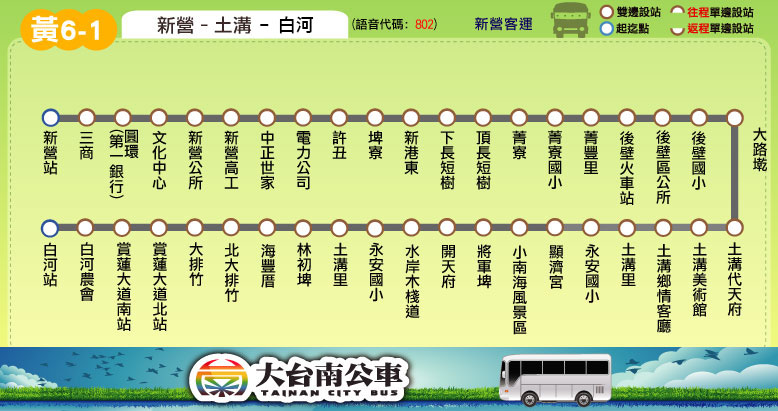
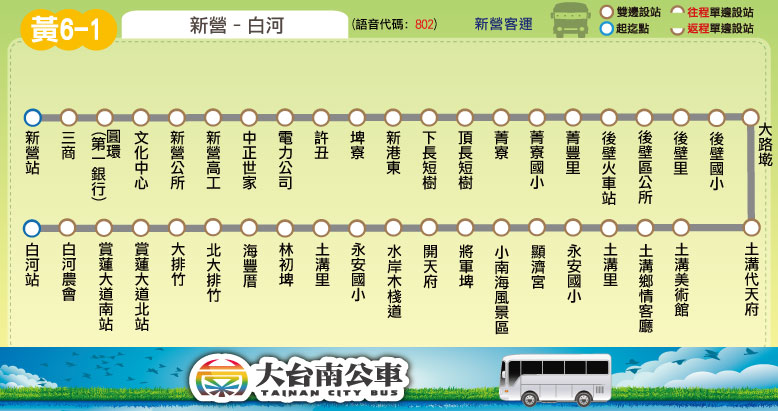
新增站位：黃6-1(增「後壁里」)、黃10(增「後壁里」、「後壁區公所」)

diff --git a/route/fare_and_time/yellow_10.js b/route/fare_and_time/yellow_10.js
@@ -1,7 +1,7 @@
 yellow_10_interval_name = ["泰安宮","後壁<br />火車站","大路墘","顯濟宮","土溝里","白河","河東","大林","大林<br />路口","檨仔坑","石廟仔","籠仔內","六重溪"];
 yellow_10_interval_stop = [ // 2017.06.13 checked
 ["泰安宮","嘉苳里","下茄苳"], // 泰安宮
-["後壁高中","良食故事館","後壁火車站","後壁國小"], // 後壁火車站
+["後壁高中","良食故事館","後壁火車站","後壁區公所","後壁里","後壁國小"], // 後壁火車站
 ["大路墘"], // 大路墘
 ["嘉民里","東上茄苳","顯濟宮","永安國小"], // 顯濟宮
 ["土溝里","後壁竹子腳","下庄仔"], // 土溝里

diff --git a/route/fare_and_time/yellow_6_1.js b/route/fare_and_time/yellow_6_1.js
@@ -5,7 +5,7 @@ yellow_6_1_interval_stop = [ // 2015.7.5 checked
 ["新港東"], // 新港東
 ["下長短樹","頂長短樹"], // 頂長短樹
 ["菁寮","菁寮國小","菁豐里"], // 菁寮
-["後壁火車站","後壁區公所","後壁國小"], // 後壁區公所
+["後壁火車站","後壁區公所","後壁里","後壁國小"], // 後壁區公所
 ["大路墘"], // 大路墘
 ["土溝代天府","土溝美術館","土溝鄉情客廳","土溝里"], // 土溝代天府
 ["永安國小","顯濟宮"], // 顯濟宮
